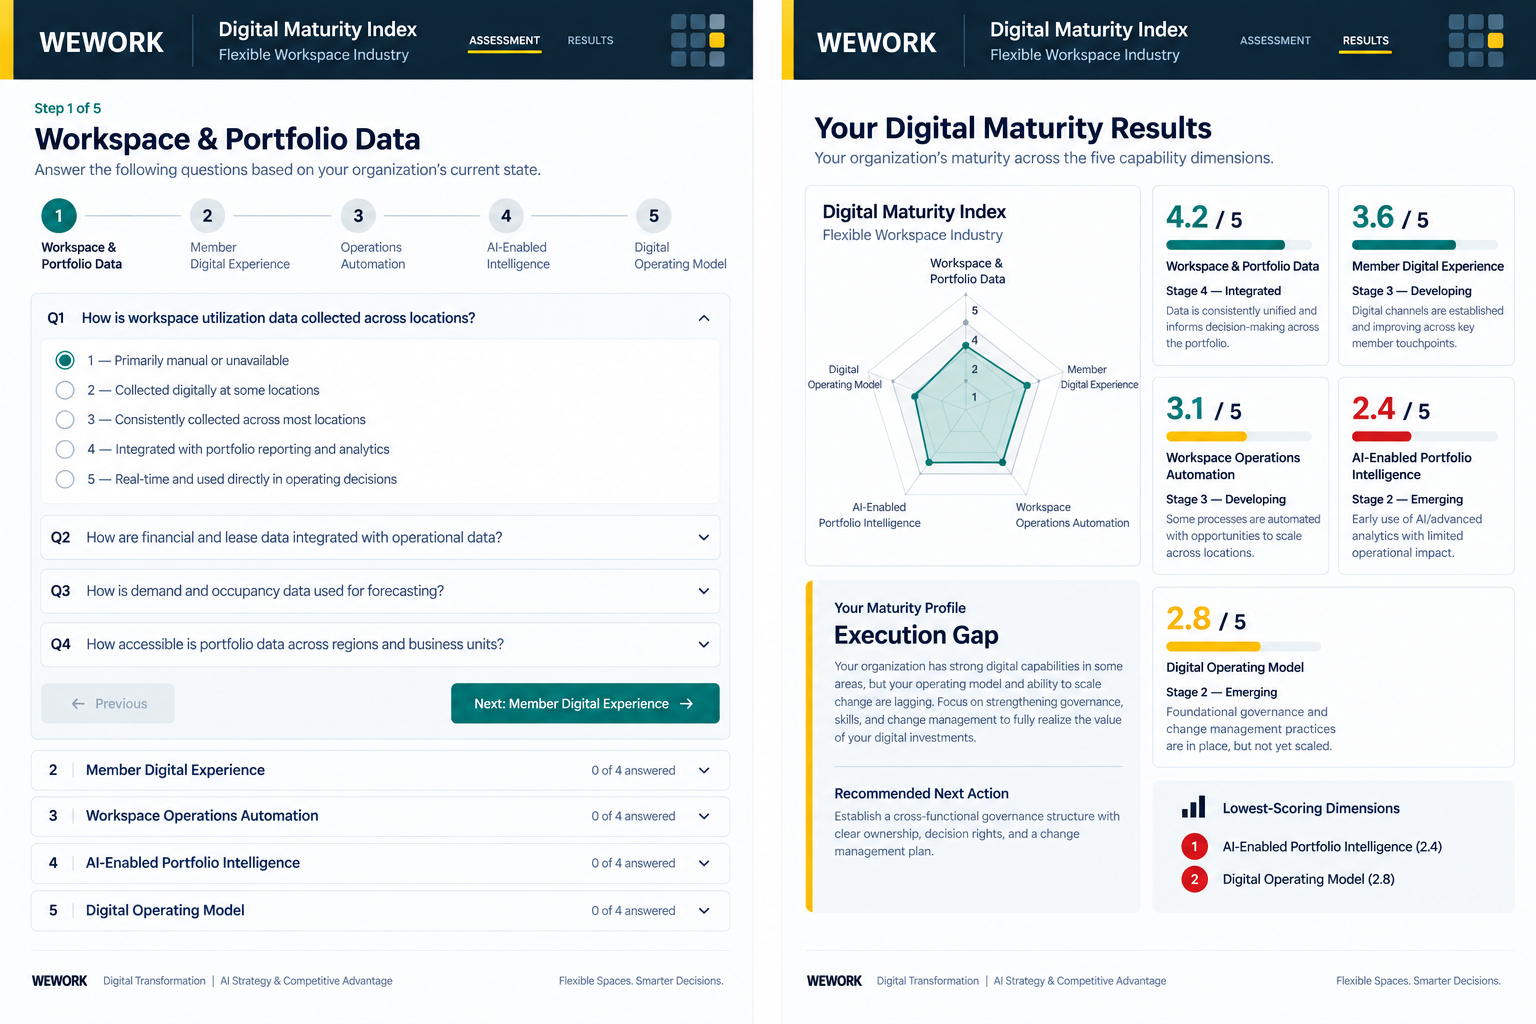
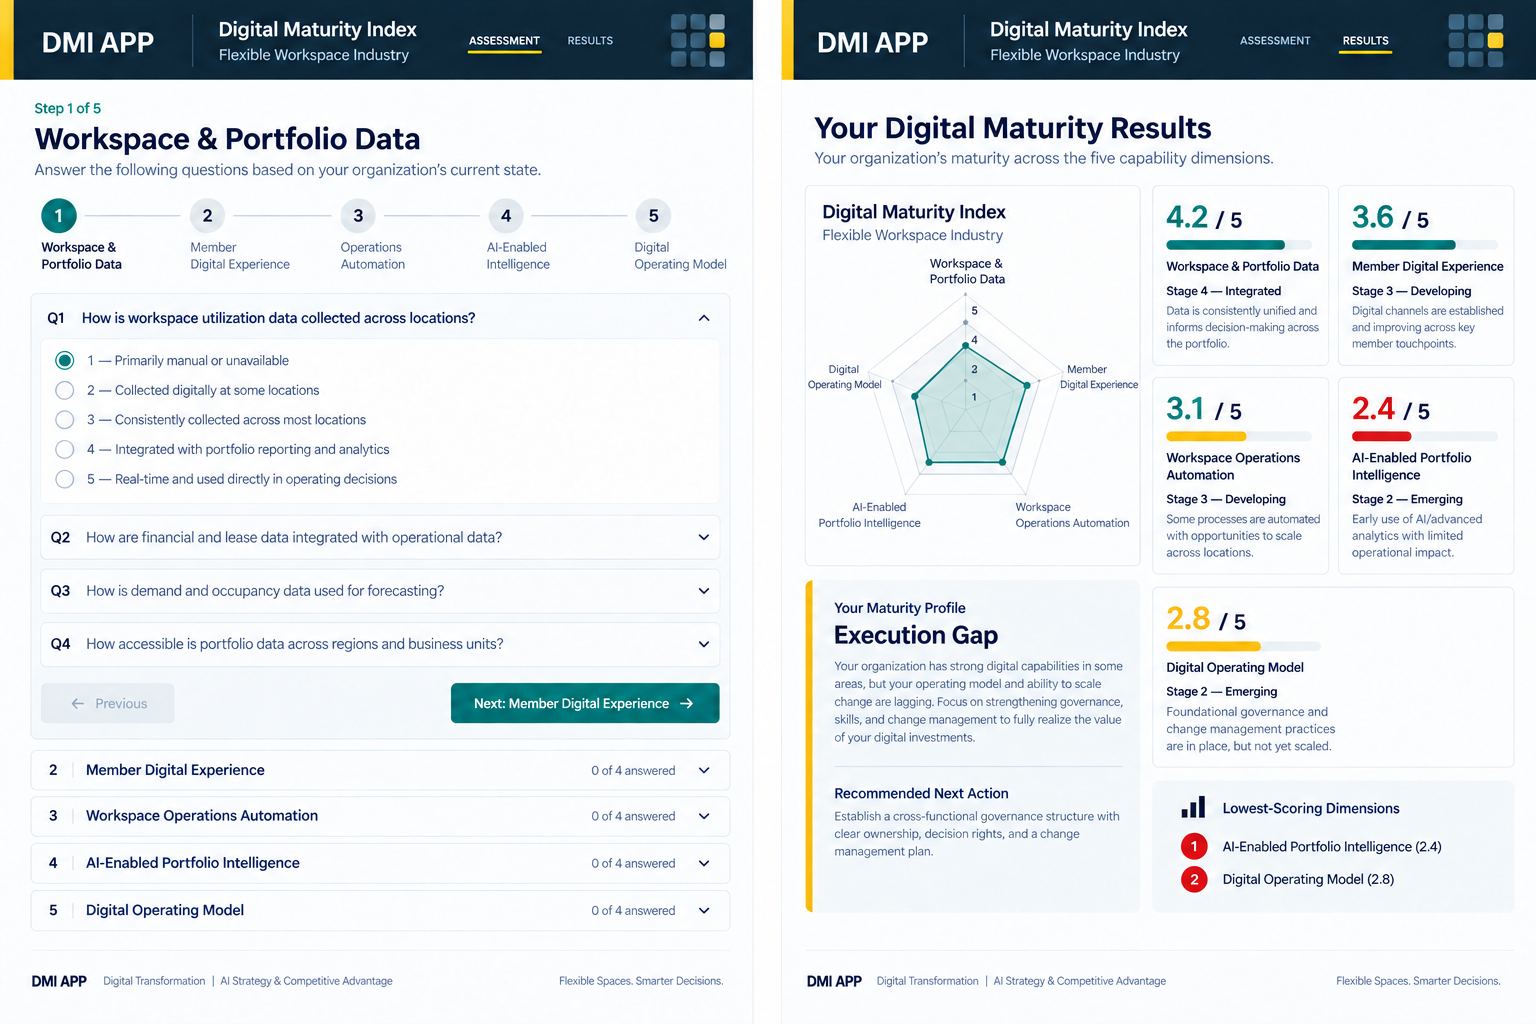
Replace WeWork branding with DMI App

diff --git a/index.html b/index.html
@@ -697,7 +697,7 @@
   <body>
     <header>
       <div class="header-inner">
-        <div class="brand">WEWORK</div>
+        <div class="brand">DMI APP</div>
         <div class="title-block">
           <div class="app-title">Digital Maturity Index</div>
           <div class="subtitle">Flexible Workspace Industry</div>
@@ -808,7 +808,7 @@
       </section>
     </main>
     <footer>
-      <strong>WEWORK</strong
+      <strong>DMI APP</strong
       ><span
         >Digital Transformation&nbsp; | &nbsp;AI Strategy &amp; Competitive
         Advantage</span
